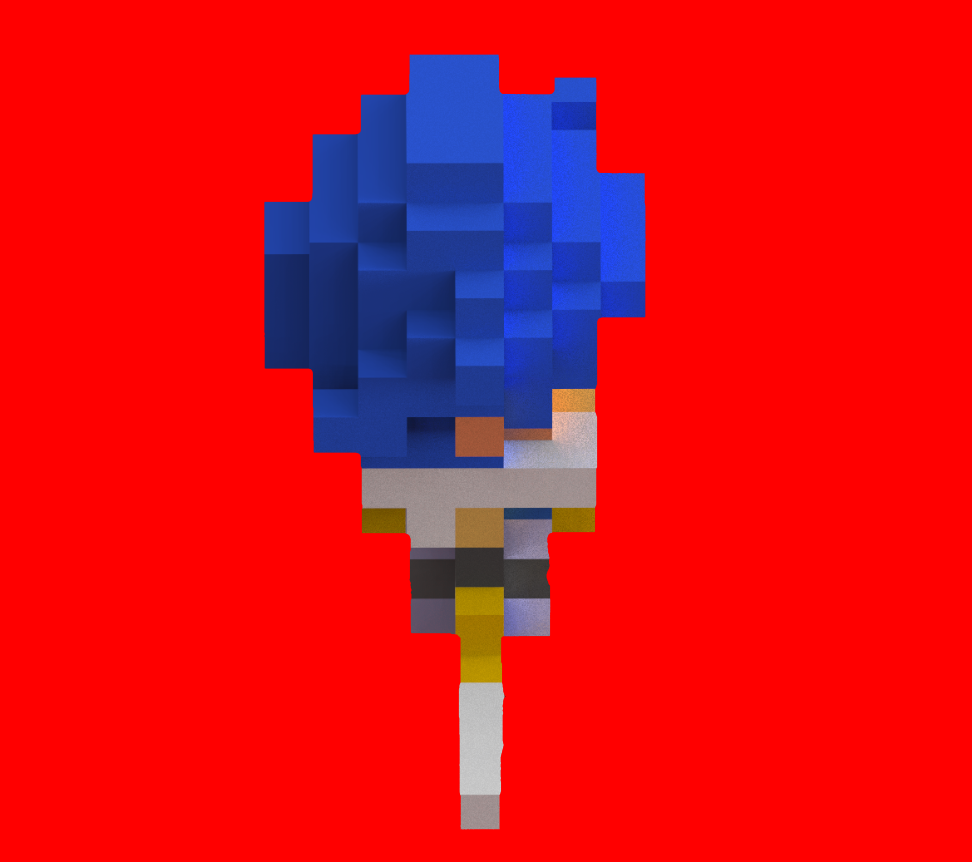
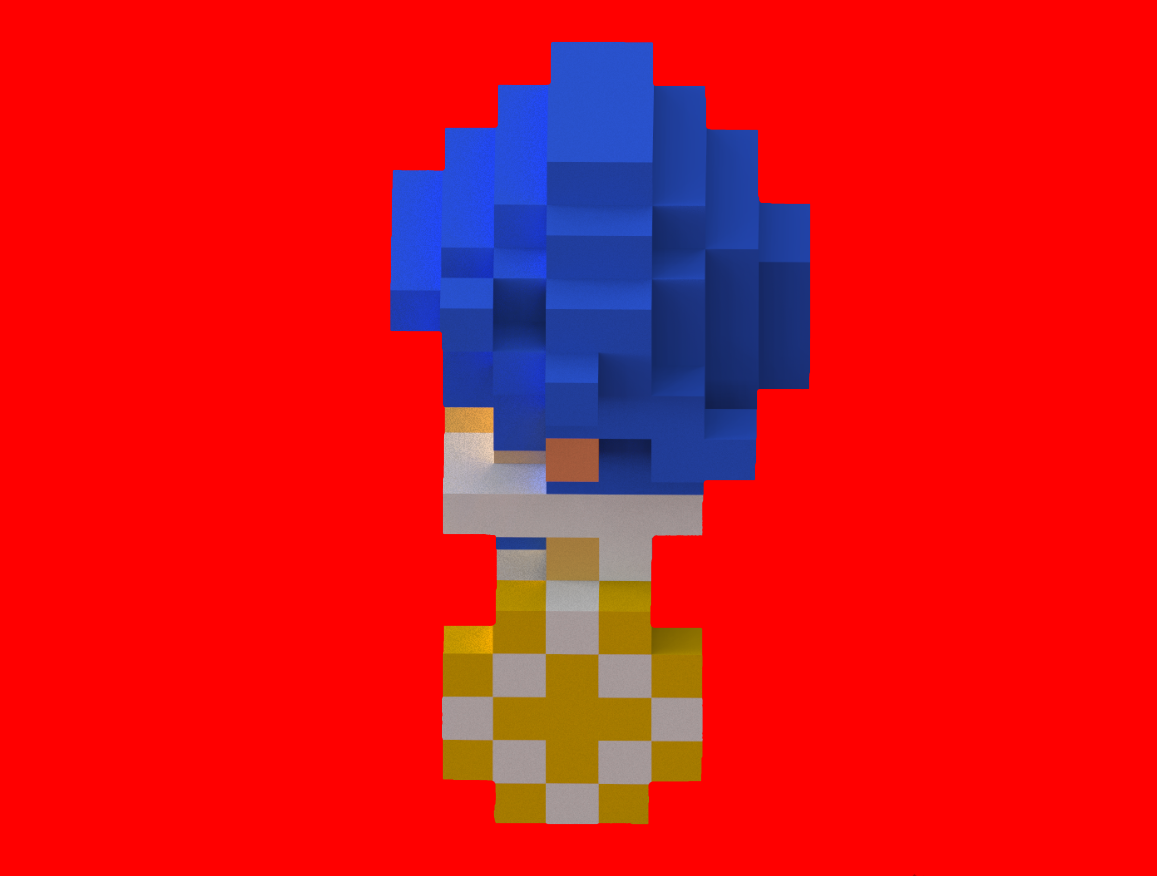
Alterei o andar do personagem para objeto..

Changed region(s): [[0.2469, 0.0302, 0.7099, 0.9652]]

diff --git a/GameCode/tela_jogo.py b/GameCode/tela_jogo.py
@@ -1,46 +1,26 @@
 import pygame
 from os import path
 from GameCode.Construtores.Classes_Base import Novo_Objeto
-from GameCode.Configs import PRETO, VERMELHO, SAIR, DIR_IMAGENS
+from GameCode.Configs import PRETO, VERMELHO, SAIR, IMAGENS_DO_JOGO
 
-# >> importações temporarias <<
-LARGURA = 1920
-ALTURA = 1080
-FPS = 60
-Dir_Game = path.join(DIR_IMAGENS, "Game")
+# Carrega as imagens do diretório: "Game"
+Imagens = IMAGENS_DO_JOGO["Game"]
 
 # Classe Jogador
 class Player(Novo_Objeto):
     
     # Construtor da classe.
-    def __init__(self, player_img_front, player_img_back, player_img_left, player_img_right, camera):
+    def __init__(self, Lista_imagens_player, Multiplicador, camera):
         
-        # Construtor da classe pai (Sprite).
-        pygame.sprite.Sprite.__init__(self)
+        centro_da_tela = ( int(1920/2), int(1080/2) )
+        super().__init__(Lista_imagens_player[0], Multiplicador, centro_da_tela)
         
         # Dá camera ao personagem
         self.camera = camera
-        
-        # Carregando a imagem do personagem
-        self.image_front = player_img_front
-        self.image_back = player_img_back
-        self.image_left = player_img_left
-        self.image_right = player_img_right
-        
-        # Diminuindo o tamanho da imagem.
-        self.image_front = pygame.transform.scale(player_img_front, (200, 200))
-        self.image_back = pygame.transform.scale(player_img_back, (200, 200))
-        self.image_left = pygame.transform.scale(player_img_left, (200, 200))
-        self.image_right = pygame.transform.scale(player_img_right, (200, 200))
-        
-        # Deixando transparente.
-        self.image_front.set_colorkey(VERMELHO)
-        self.image_back.set_colorkey(VERMELHO)
-        self.image_left.set_colorkey(VERMELHO)
-        self.image_right.set_colorkey(VERMELHO)
-        
-        self.px = LARGURA /2
-        self.py = ALTURA /2
+
+        # Imagem da câmera
+        self.px = 1920/2
+        self.py = 1080/2
         
         # Detalhes sobre o posicionamento.
         self.rect = self.image.get_rect()
@@ -56,12 +36,18 @@ class Player(Novo_Objeto):
         # Melhora a colisão estabelecendo um raio de um circulo
         self.radius = 25
     
-    def update_Img(self):
-
-
+    def update_Imagem(self, Lista_imagens_player, Multiplicador, BAIXO, CIMA, ESQUERDA, DIREITA):
+        if BAIXO:
+            self.Criar_Objeto(Lista_imagens_player[0], Multiplicador)
+        elif CIMA:
+            self.Criar_Objeto(Lista_imagens_player[1], Multiplicador)
+        elif ESQUERDA:
+            self.Criar_Objeto(Lista_imagens_player[2], Multiplicador)
+        elif DIREITA:
+            self.Criar_Objeto(Lista_imagens_player[3], Multiplicador)
 
     # Atualiza a posição do Player
-    def update(self):
+    def update_Posição(self):
         self.px += self.speedx
         self.py += self.speedy
 
@@ -83,86 +69,83 @@ class Camera:
         self.px = px
         self.py = py
 
-class Parede:
-    def __init__(self, x, y, size_x, size_y):
-        self.x = x
+def tela_jogo(Tela, Multiplicador):
 
-def tela_jogo(screen):
-    background = pygame.image.load(path.join(Dir_Game, 'Escola 01.png')).convert()
+    Fundo = Imagens["Escola 01"]
+    P_Frente = Imagens["FRENTE"]
+    P_Atras = Imagens["ATRAS"]
+    P_Esquerda = Imagens["ESQ"]
+    P_Direita = Imagens["DIR"]
+
+    Lista_imagens_player = [P_Frente, P_Atras, P_Esquerda, P_Direita]
+
+    background = Fundo
     background_rect = background.get_rect()
     
     camera = Camera(0, 0)
-    
-    p_frente = pygame.image.load(path.join(Dir_Game, "FRENTE.png")).convert()
-    p_atr = pygame.image.load(path.join(Dir_Game, "ATRAS.png")).convert()
-    p_esq = pygame.image.load(path.join(Dir_Game, "ESQ.png")).convert()
-    p_dir = pygame.image.load(path.join(Dir_Game, "DIR.png")).convert()
-    player = Player(p_frente, p_atr, p_esq, p_dir, camera)
-    
+
+    player = Player(Lista_imagens_player, Multiplicador, camera)
     
     all_sprites = pygame.sprite.Group()
     all_sprites.add(player)
-    
-    clock = pygame.time.Clock()
     
     PLAYING = 0
     DONE = 1
     
     state = PLAYING
     while state != DONE:
-        clock.tick(FPS)
         
+        BAIXO, CIMA, ESQUERDA, DIREITA = False, False, False, False
         for event in pygame.event.get():
             if event.type == pygame.KEYDOWN:
 
                 if event.key == pygame.K_LEFT:
                     player.speedx = 5
-
-                    player_img = pygame.image.load(path.join(Dir_Game, "DIR.png")).convert()
-                    player.image = pygame.transform.scale(player_img, (200, 200))
-                    player.image.set_colorkey(VERMELHO)
+                    ESQUERDA = True
 
                 if event.key == pygame.K_RIGHT:
                     player.speedx = -5
-
-                    player_img = pygame.image.load(path.join(Dir_Game, "ESQ.png")).convert()
-                    player.image = pygame.transform.scale(player_img, (200, 200))
-                    player.image.set_colorkey(VERMELHO)
+                    DIREITA = True
 
                 if event.key == pygame.K_UP:
                     player.speedy = 5
-
-                    player_img = pygame.image.load(path.join(Dir_Game, "ATRAS.png")).convert()
-                    player.image = pygame.transform.scale(player_img, (200, 200))
-                    player.image.set_colorkey(VERMELHO)
+                    CIMA = True
 
                 if event.key == pygame.K_DOWN:
                     player.speedy = -5
-
-                    player_img = pygame.image.load(path.join(Dir_Game, "FRENTE.png")).convert()
-                    player.image = pygame.transform.scale(player_img, (200, 200))
-                    player.image.set_colorkey(VERMELHO)
+                    BAIXO = True
 
                 if event.key == pygame.K_q:
                     state = DONE
+
+            player.update_Imagem(Lista_imagens_player, Multiplicador, BAIXO, CIMA, ESQUERDA, DIREITA)
             
             if event.type == pygame.KEYUP:
                 if event.key == pygame.K_LEFT:
                     player.speedx = 0
+                    ESQUERDA = False
+
                 if event.key == pygame.K_RIGHT:
                     player.speedx = 0
+                    DIREITA = False
+
                 if event.key == pygame.K_UP:
                     player.speedy = 0
+                    CIMA = False
+
                 if event.key == pygame.K_DOWN:
                     player.speedy = 0
+                    BAIXO = False
+
+            player.update_Imagem(Lista_imagens_player, Multiplicador, BAIXO, CIMA, ESQUERDA, DIREITA)
         
         all_sprites.update()
         # A cada loop, redesenha o fundo e os sprites
-        screen.fill(PRETO)
+        Tela.fill(PRETO)
         background_rect.x = camera.px
         background_rect.y = camera.py
-        screen.blit(background, background_rect)
-        all_sprites.draw(screen)
+        Tela.blit(background, background_rect)
+        all_sprites.draw(Tela)
         
         # Depois de desenhar tudo, inverte o display.
         pygame.display.flip()

diff --git a/Jogo.py b/Jogo.py
@@ -8,8 +8,7 @@
 from GameCode.Construtores.Funções_Base import *
 from GameCode.MenuMaker import Menu, SavedGamesMenu
 
-#EM FASE DE TESTES
-#from GameCode.Tela_jogo import Tela_jogo
+from GameCode.tela_jogo import tela_jogo
 
 #Testes lucas
 from GameCode.GameMaker import Start_Game
@@ -18,7 +17,7 @@ from GameCode.GameMaker import Start_Game
 Multiplicador, Tela = Iniciar_Pygame()
 
 #Estado Inicial do Jogo
-Estado = MENU_PRINCIPAL
+Estado = JOGO
 
 #Save do Jogo sendo Jogado
 Save = -1
@@ -127,7 +126,8 @@ try:
 
 		#Vai para o Jogo
 		elif Estado == JOGO:
-			Estado = Start_Game(CONFIG.getString("Díretorios.Jogos Salvos", default_value="Jogos Salvos"), Save, Tela)
+			Estado = tela_jogo(Tela, Multiplicador)
+			#Estado = Start_Game(CONFIG.getString("Díretorios.Jogos Salvos", default_value="Jogos Salvos"), Save, Tela)
 
 		#Estado Desconhecido = Para o Jogo
 		else:
